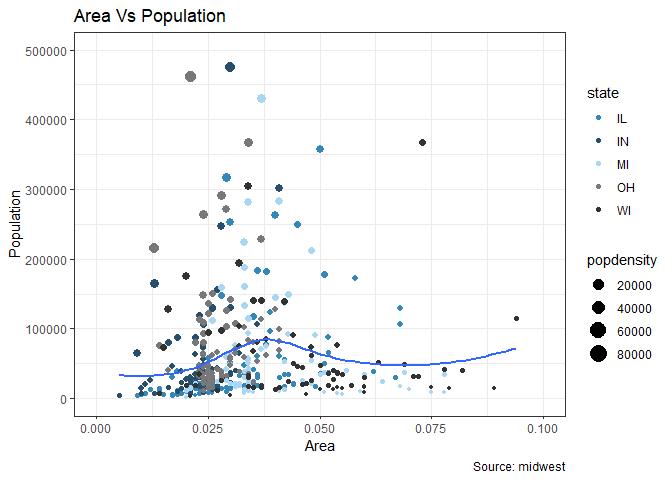
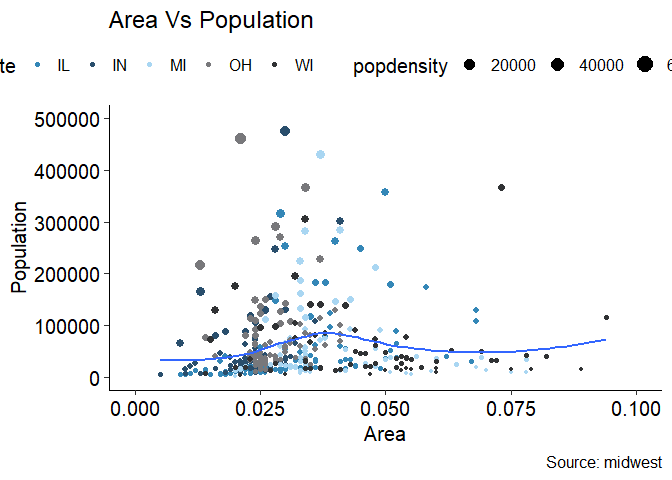
Update coding and figures in readme

diff --git a/README.md b/README.md
@@ -30,16 +30,48 @@ options(scipen=999)
 library(ggplot2)
 data("midwest", package = "ggplot2")
 theme_set(theme_atsu())
-gg <- ggplot(midwest, aes(x=area, y=poptotal)) + 
+gm <- ggplot(midwest, aes(x=area, y=poptotal)) + 
      geom_point(aes(col=state, size=popdensity)) + 
      geom_smooth(method="loess", se=F) + xlim(c(0, 0.1)) + ylim(c(0, 500000)) + 
      labs(title="Area Vs Population", y="Population", x="Area", caption="Source: midwest") +
  scale_color_atsu(palette = "main", discrete = TRUE, reverse = FALSE)
 
-plot(gg)
+plot(gm)
 #> `geom_smooth()` using formula 'y ~ x'
 #> Warning: Removed 15 rows containing non-finite values (stat_smooth).
 #> Warning: Removed 15 rows containing missing values (geom_point).
 ```
 
 <img src="man/figures/README-example-1.png" width="100%" />
+
+``` r
+gb <- ggplot(midwest, aes(x=area, y=poptotal)) + 
+     geom_point(aes(col=state, size=popdensity)) + 
+     geom_smooth(method="loess", se=F) + xlim(c(0, 0.1)) + ylim(c(0, 500000)) + 
+     labs(title="Area Vs Population", y="Population", x="Area", caption="Source: midwest") +
+ scale_color_atsu(palette = "blues", discrete = TRUE, reverse = FALSE)
+
+plot(gb)
+#> `geom_smooth()` using formula 'y ~ x'
+#> Warning: Removed 15 rows containing non-finite values (stat_smooth).
+
+#> Warning: Removed 15 rows containing missing values (geom_point).
+```
+
+<img src="man/figures/README-example-2.png" width="100%" />
+
+``` r
+gg <- ggplot(midwest, aes(x=area, y=poptotal)) + 
+     geom_point(aes(col=state, size=popdensity)) + 
+     geom_smooth(method="loess", se=F) + xlim(c(0, 0.1)) + ylim(c(0, 500000)) + 
+     labs(title="Area Vs Population", y="Population", x="Area", caption="Source: midwest") +
+ scale_color_atsu(palette = "grays", discrete = TRUE, reverse = FALSE)
+
+plot(gg)
+#> `geom_smooth()` using formula 'y ~ x'
+#> Warning: Removed 15 rows containing non-finite values (stat_smooth).
+
+#> Warning: Removed 15 rows containing missing values (geom_point).
+```
+
+<img src="man/figures/README-example-3.png" width="100%" />
